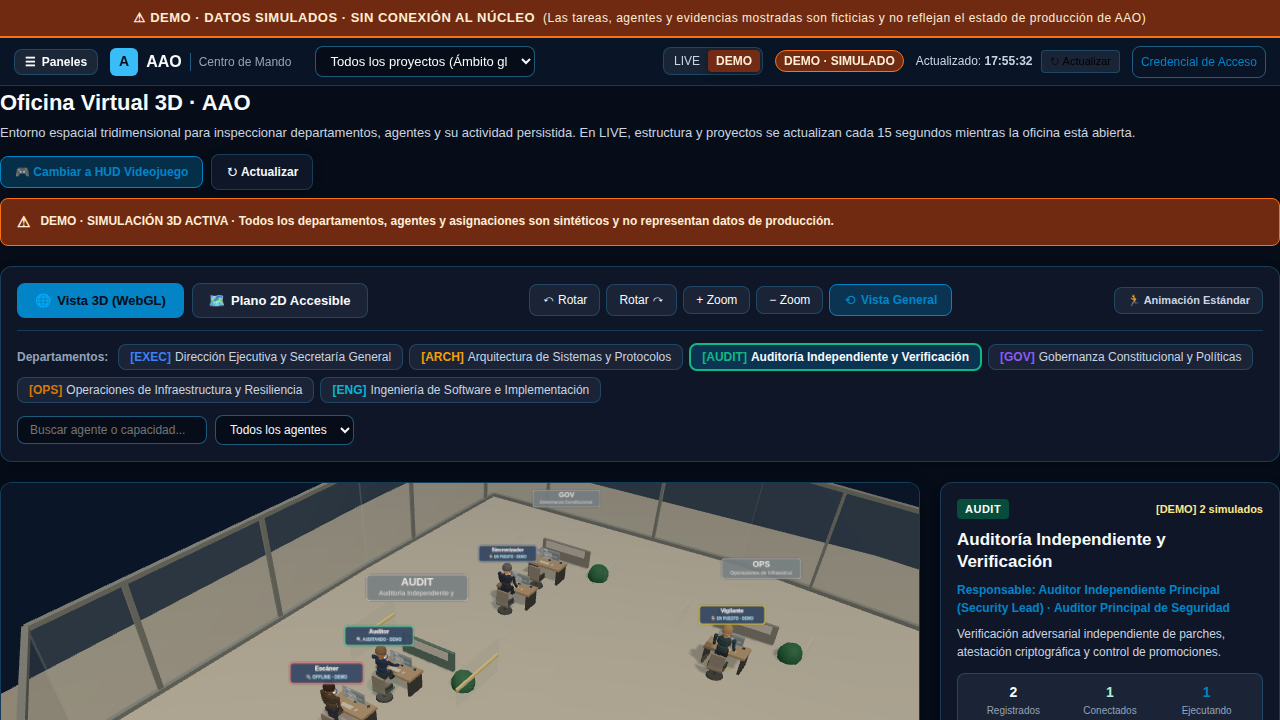
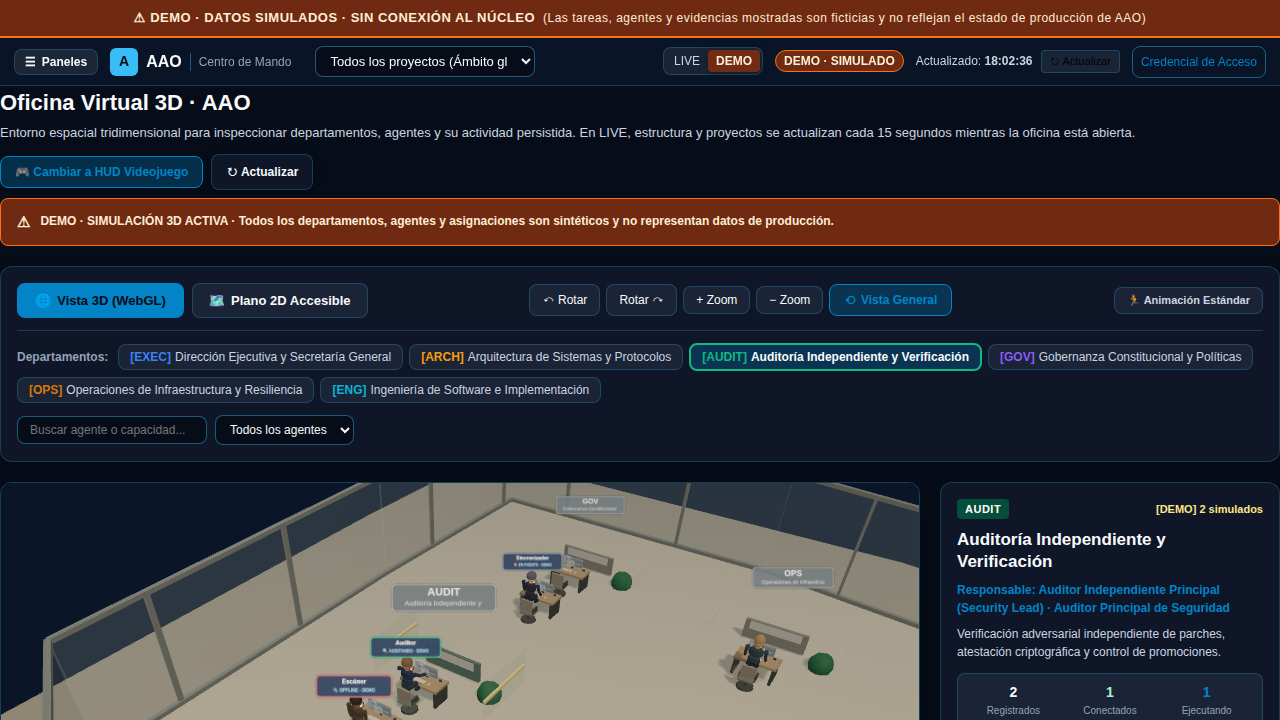
docs(office): add focused department browser evidence

diff --git a/frontend/app/e2e/screenshots.spec.ts b/frontend/app/e2e/screenshots.spec.ts
@@ -54,6 +54,13 @@ test('Capture real screenshots of F4.7 and F4.8 Office', async ({ page }) => {
     await agentButton.click();
     await page.waitForTimeout(500);
     await page.screenshot({ path: path.join(screenshotsDir, '03-office-agent-inspector.png'), fullPage: false });
+    const zoomIn = toolbar.getByRole('button', { name: 'Acercar zoom' });
+    for (let step = 0; step < 3; step += 1) await zoomIn.click({ force: true });
+    await page.waitForTimeout(1200);
+    await page.screenshot({
+      path: path.join(v42EvidenceDir, 'office-operational-department-close.png'),
+      fullPage: false,
+    });
   }
 
   // Capture 4: Accessible 2D Plan

diff --git a/frontend/app/docs/screenshots/v42-comparison/README.md b/frontend/app/docs/screenshots/v42-comparison/README.md
@@ -5,6 +5,8 @@ Both captures use the browser-driven `e2e/screenshots.spec.ts` F4.7 overview flo
 - `office-overview-before.png`: repository screenshot from the pre-envelope revision `1a06313b1239306328b658f65c0e62eb348e112d`.
 - `office-overview-after.png`: fresh real-browser capture with the envelope/facade and aligned navigation-entry changes in the current V4.2 worktree. The test passed after capture.
 
-This is one overview comparison, not evidence for every requested department, audit, conversation, close-up, LIVE-empty, or top-down scenario.
+Current browser captures also include the selected Audit neighborhood and a zoomed operational Engineering neighborhood. The latter is a department close view, **not** a verified agent working close-up.
+
+Still missing: an Agora/conversation view, a close-up proving an agent's working posture, a LIVE-empty/unconstituted capture, a top-down view, and browser-driven organization cases for one/three/eight agents plus add/remove/reorganization.
 
 `office-audit-neighborhood.png` is captured separately by the browser screenshot test so the acoustic treatment can be inspected independently from the overall view.
